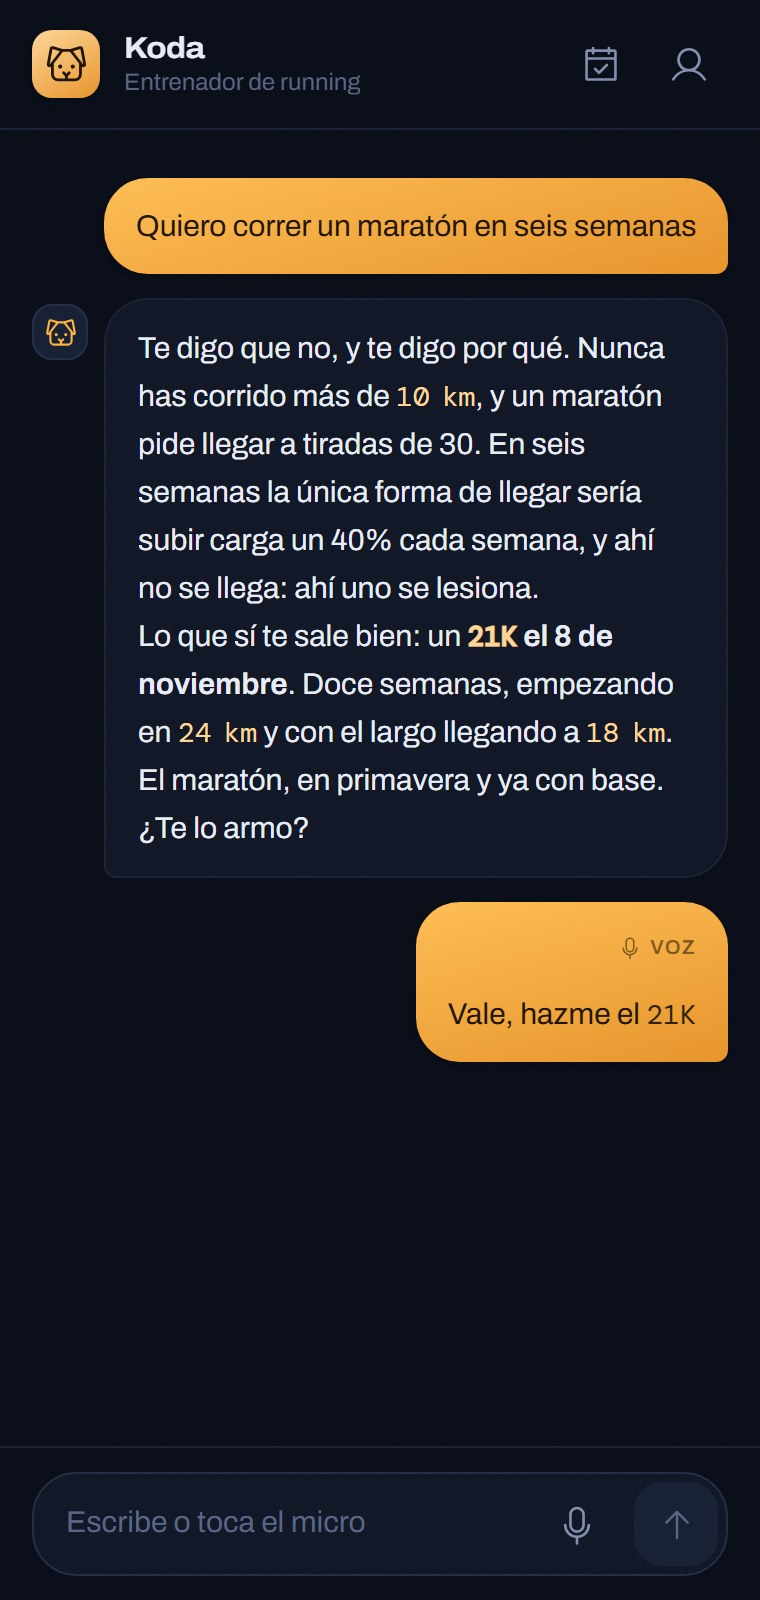
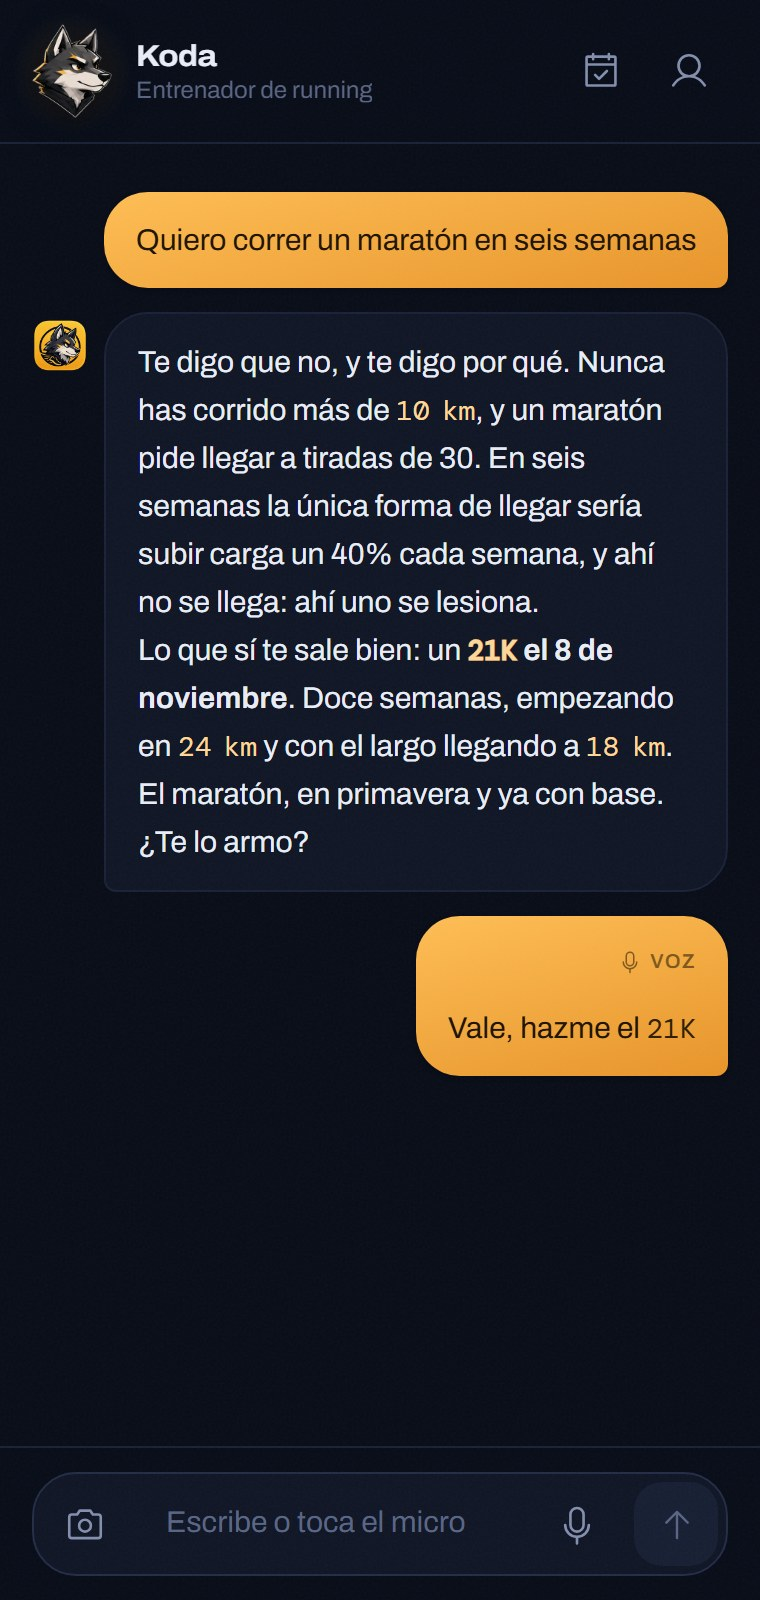
fix: la marca del perfil daba ritmos imposibles, y las capturas los ensenaban
En la base habia 64 km en 4:00:00 como "mejor marca reciente". De ahi salian
los 21:51/km que se veian en el plan, y despues los 3:08/km de series, que
son ritmos de elite. Ninguno de los dos era real.

Nadie tiene una marca reciente de 64 km: es un numero que entro por la
conversacion y se guardo como marca. Corregido a 10 km en 52:30, que ademas
es la que ya contaba el texto de la portada — asi la captura y lo que dice
la pagina al lado son la misma cosa. Los ritmos salen ahora en 6:32/km facil
y 4:57/km series.

Con eso, las capturas de la portada regeneradas: llevaban el icono viejo, el
avatar de linea y los ritmos absurdos. Y una nueva del calendario, que es
una funcion que existia desde hace dos dias y no se ensenaba en ningun
sitio: sustituye a la conversacion repetida del paso 03, que ahora habla del
calendario en vez de repetir lo del paso 01.

diff --git a/app/interfaces/web/index.html b/app/interfaces/web/index.html
@@ -142,12 +142,13 @@
             <span class="numero-paso">03</span>
             <h3>Te acompaña hasta la carrera</h3>
             <p>
-              Cada mañana te llega la sesión del día. Por la noche te pregunta si
-              saliste, y el domingo te resume la semana. Le puedes contestar hablando.
+              El calendario te dice qué toca cada día, con el color de la zona de esa
+              sesión. Y cada mañana te llega por correo la del día: por la noche te
+              pregunta si saliste, y el domingo te resume la semana.
             </p>
           </div>
-          <img class="pantalla" src="/capturas/conversacion.jpg" width="760" height="1600"
-               alt="Conversación con Koda en la aplicación." loading="lazy" />
+          <img class="pantalla" src="/capturas/calendario.jpg" width="760" height="1600"
+               alt="El calendario del plan: cada día con un punto del color de su tipo de sesión, y abajo el detalle del día elegido." loading="lazy" />
         </li>
       </ol>
     </div>
@@ -182,8 +183,8 @@
         <article>
           <h3>Voz en tiempo real, con red debajo</h3>
           <p>
-            Amazon Nova Sonic para hablar. Si falla, cae sola a una cascada de
-            transcripción, modelo y síntesis, con varios proveedores en cadena.
+            Nova Sonic oye y habla; las decisiones las toma un modelo grande detrás.
+            La voz no recibe ni un dato del runner, así que no puede equivocar ninguno.
           </p>
         </article>
         <article>
@@ -196,7 +197,7 @@
       </div>
 
       <p class="nota">
-        El código, la documentación y los 19 registros de decisión están en el
+        El código, la documentación y los 20 registros de decisión están en el
         repositorio.
       </p>
     </div>

diff --git a/tests/integration/test_rutas_web.py b/tests/integration/test_rutas_web.py
@@ -60,6 +60,7 @@ def test_los_recursos_compartidos_se_sirven_desde_la_raiz() -> None:
         "/koda/cara-duda.webp",
         "/koda/cara-rie.webp",
         "/koda/corriendo.webp",
+        "/capturas/calendario.jpg",
         "/iconos-app/icono-180.png",
         "/iconos-app/icono-512.png",
     ):
